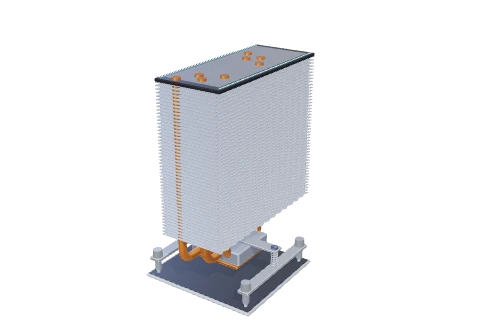
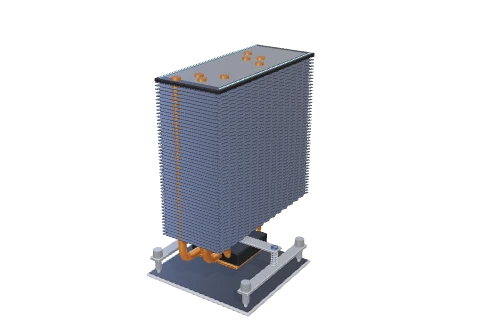
feat(parts): dark hard disk, DDR2 spreader and tower cooler
Art-style 4: the light parts get their dark variants; stills baked again.

Changed region(s): [[0.3125, 0.1488, 0.6562, 0.8036]]

diff --git a/src/features/board/render/three/cooler3d.ts b/src/features/board/render/three/cooler3d.ts
@@ -239,7 +239,7 @@ function wireClips(g: Group, face: number, notch: number, m: MeshStandardMateria
 }
 
 function tower(g: Group, spins: Spin[], fans: readonly FanFit[]): MeshStandardMaterial {
-  const { x, y, w, h } = STACK, fin = alu(0xb4bccb, 0.3), cu = copper(), m = steel();
+  const { x, y, w, h } = STACK, fin = alu(0x4e5360, 0.4), cu = copper(), m = steel(); // (dark anodised fins, art-style §4)
   // the mount: a bar each side of the socket on the standoffs, a thumb nut on each end; a crossbar over the base, sprung down onto the bars by a
   // screw at each end
   mount(g, { standoff: BOARD_Z + 200, nut: BOARD_Z + 260 });
@@ -256,7 +256,7 @@ function tower(g: Group, spins: Spin[], fans: readonly FanFit[]): MeshStandardMa
   screws(g, [[-920, 0], [920, 0]], L + 340, 60);
   // the base: a copper contact plate on the lid, the aluminium block the pipes run through
   g.add(softBox({ x: -470, y: -470, w: 940, h: 940 }, L, L + 50, cu, 10));
-  g.add(softBox({ x: -500, y: -450, w: 1000, h: 900 }, L + 50, L + 300, alu(0x8a93a6, 0.34), 30));
+  g.add(softBox({ x: -500, y: -450, w: 1000, h: 900 }, L + 50, L + 300, alu(0x2a2d32, 0.4), 30));
   // four heat pipes, each a U along the base and up through every fin at both ends, staggered so the air meets each in turn; their tips stand
   // through the cover
   const tip = FIN1 + 100;

diff --git a/src/features/board/render/three/ram3d.ts b/src/features/board/render/three/ram3d.ts
@@ -204,7 +204,7 @@ export function ramStick(visual: string, ecc: boolean, r: RectLike, label = ''):
   // the spreader: a plate over each face, on a thermal pad over the chips. No tier colours: the tiers read by how premium the metal looks,
   // stamped steel (DDR2), dark anodised fins (DDR3), matte black under a light bar (DDR4), brushed dark titanium with a diamond-cut edge (DDR5)
   const t = look === 'low' ? 14 : look === 'fins' ? 30 : 32, x0 = PCB_T / 2 + CHIP_T + PAD, u0 = 18, u1 = L - 18, best = visual === 'dimm-ddr5';
-  const plateM = look === 'low' ? mat(0x959aa3, { metalness: 0.55, roughness: 0.5 })
+  const plateM = look === 'low' ? mat(0x4e5360, { metalness: 0.6, roughness: 0.45 }) // (a dark anodised clip-on, art-style §4)
     : look === 'fins' ? mat(0x2a2d32, { metalness: 0.6, roughness: 0.45 })
     : best ? mat(0x2a2d32, { metalness: 0.85, roughness: 0.3 }) : mat(0x2a2d32, { metalness: 0.5, roughness: 0.55 });
   for (const s of [-1, 1]) spreader.add(place(new Mesh(standing(plateShape(look, u0, u1), t, s < 0 ? cx - x0 - t : cx + x0, ys, 1.5), plateM)));

diff --git a/src/features/board/render/three/drive3d.ts b/src/features/board/render/three/drive3d.ts
@@ -96,8 +96,9 @@ function receptacle(g: Group, pins: 7 | 15, x0: number, y0: number, s: SocketMat
 /** The 3.5 in. hard disk (see the header). */
 export function hddModel(look: DriveLook): DriveModel {
   const g = new Group(), W = m(HDD_MM.w), T = m(HDD_MM.t), L = m(HDD_MM.l), top = T - m(0.8), r = m(2.2);
-  const cast = mat(0x959aa3, { metalness: 0.72, roughness: 0.52 });
-  const cover = mat(0xd5d9dd, { metalness: 0.92, roughness: 0.27, map: tiled(brushed(), 2, 3) });
+  // (a dark drive, art-style §4: a black casting under a brushed dark stainless cover)
+  const cast = mat(0x2a2d32, { metalness: 0.65, roughness: 0.55 });
+  const cover = mat(0x4e5360, { metalness: 0.8, roughness: 0.4, map: tiled(brushed(), 2, 3) });
   const screwM = mat(0x2a2d32, { metalness: 0.7, roughness: 0.4 }), s = socketMats();
   // the casting: its lower part round the receptacles' pocket, its upper part whole, its sides down to the rails it stands on
   const pocket = { x0: m(6), x1: m(52), d: m(6.8) }, pocketTop = m(8.2), foot = m(1.8);

diff --git a/docs/art-style.md b/docs/art-style.md
@@ -164,6 +164,7 @@ Rules (targets; all values are proposals (J)):
 **Anti-references (the old look, including the withdrawn light-part exceptions)**
 - `public/boot-still.jpg`: a sunny warm room (48.0 % warm pixels (R > B + 5), 0 % neon, wood tones `#413124`, `#593e23`).
 - `public/stills/case0.webp`: was the cream case, mean L 231.6. Done 2026-11-16: the 3D case is the charcoal variant (§4; body and inner `#2a2d32`, plastic front `#1d1e22`, cage and buttons `#4e5360`, screws `#959aa3`), its still has mean L 57.8. The 2D shell art (`exterior.ts` `STYLES[0]`, `devices.ts`, `desk/props/case.ts`) is still cream.
+- Done 2026-11-16, the other three dark variants of §4 in 3D, stills baked again: `hdd0` (casting `#2a2d32`, cover `#4e5360`; mean L 191.4 → 131.2, its paper label stays white), `ram1` (plate `#4e5360`; 171.2 → 96.4), `cooler1` (fins `#4e5360`, base block `#2a2d32`; 166.5 → 107.1). All three meet C2 (≤ 140); `hdd0` and `cooler1` are above the dark default of 100.
 - `public/stills/hdd0.webp`: bright aluminium drive, mean L 191.4.
 - `public/stills/ram1.webp`: silver DDR2 spreader, mean L 171.2.
 - `public/stills/cooler1.webp`: bright aluminium tower, mean L 166.5.
